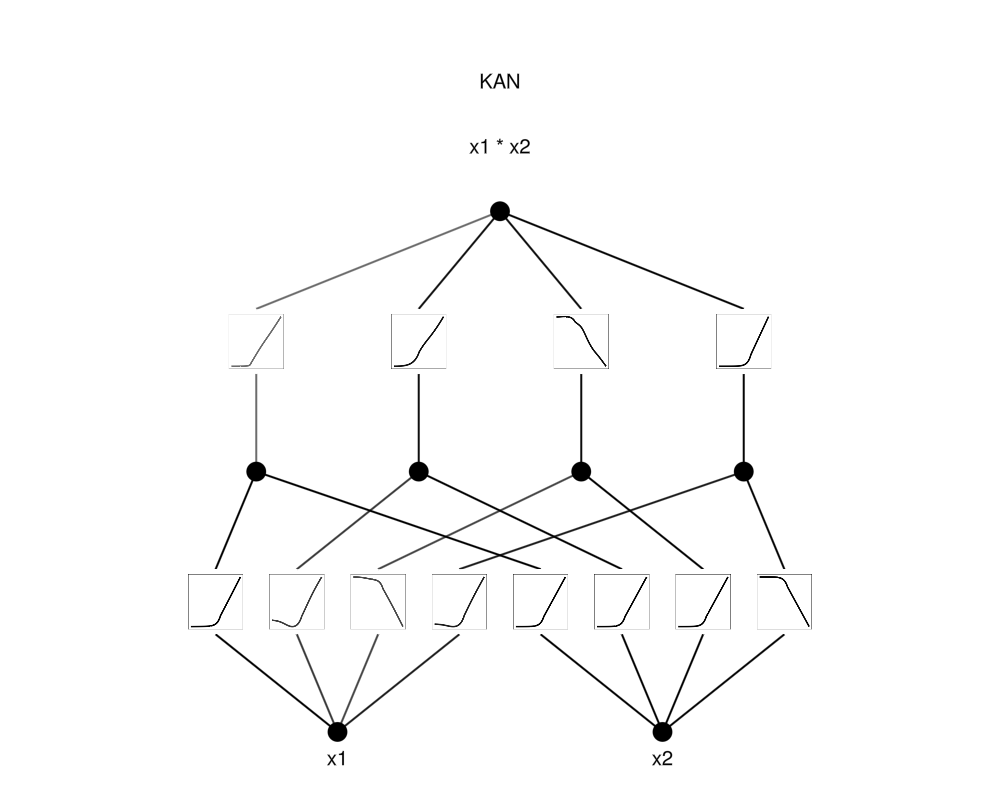
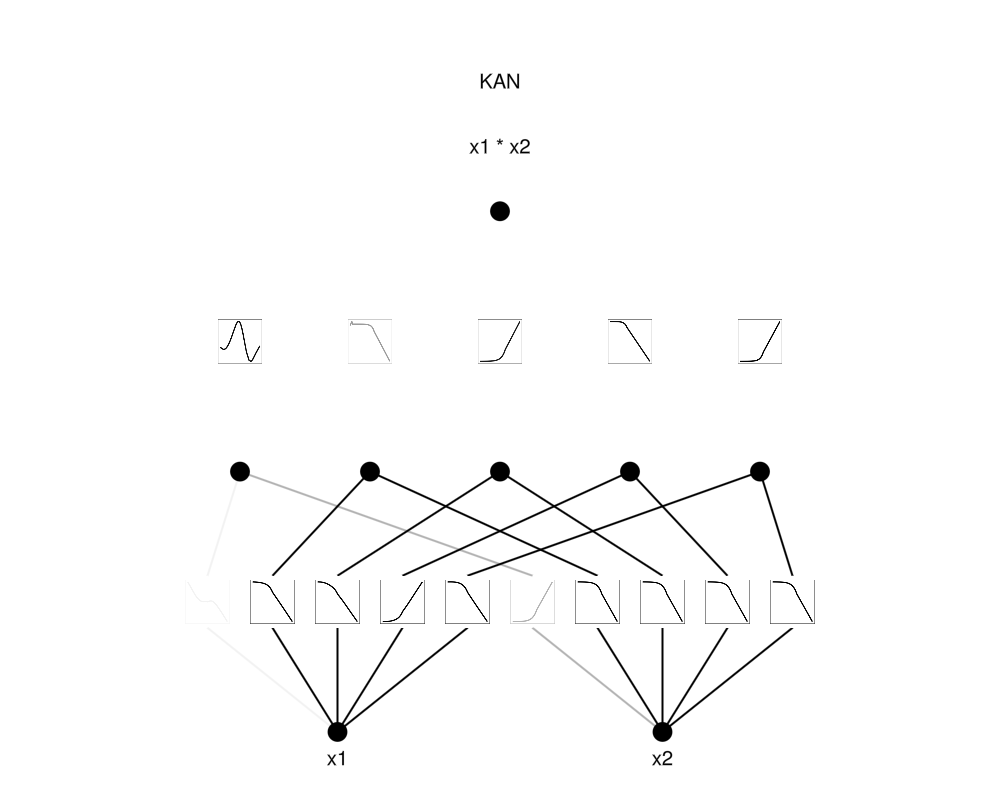
i finally got it

diff --git a/README.md b/README.md
@@ -7,9 +7,10 @@ WORK IN PROGRESS
 Thank you to KindXiaoming and the rest of the KAN community for putting this awesome network out there for the world to see.
 
 <p align="center">
-<img src="figures/kan.png" alt="KAN Architecture" width="48%" style="padding-right: 20px;">
-<img src="figures/symbolic_test.png" alt="KAN Architecture" width="48%">
+<img src="figures/symbolic_test.png" alt="KAN Network" width="48%" style="padding-right: 20px;">
+<img src="figures/symbolic_test_pruned.png" alt="Pruned KAN Network" width="48%">
 </p>
+
 
 ## To run
 
